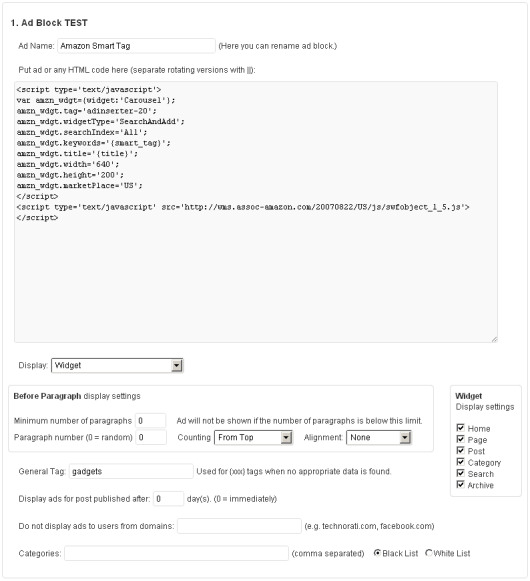
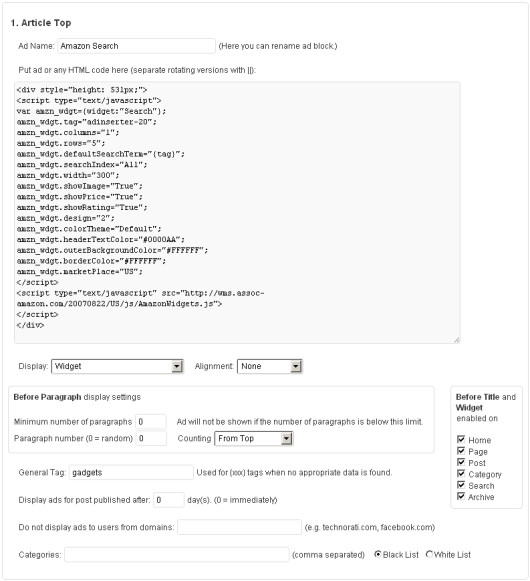
git-svn-id: https://plugins.svn.wordpress.org/ad-inserter/trunk@544482 b8457f37-d9ea-0310-8a92-e5e31aec5664

diff --git a/ad-inserter.php b/ad-inserter.php
@@ -11,16 +11,18 @@ Plugin URI: http://igorfuna.com/software/web/ad-inserter-wordpress-plugin
 
 /*
 TO DO
-- Above and below title
+- Below title
 */
 
 /*
 Change Log
 
-Ad Inserter 1.1.4 - 26/04/2012
-- Fixed bug with manual tags in posts not cleaned in blog view
+Ad Inserter 1.2.0 - 15/05/2012
+- Fixed bug: manual tags in posts lists were not removed
+- Added position Before title
 - Added support for minimum nuber of paragraphs
-- Added support for widget display options
+- Added support for page display options for Widget and Before title positions
+- Alignment now works for all display positions
 
 Ad Inserter 1.1.3 - 07/04/2012
 - Fixed bug for {search_query}: When the tag is empty {smart_tag} is used in all cases
@@ -77,6 +79,7 @@ require_once 'settings_form.php';
 //hook
 add_action('admin_menu', 'ai_admin_menu');
 add_filter('the_content', 'ai_content_hook', 99999);
+add_action('loop_start', 'ai_loop_start_hook');
 add_action('init', 'AdInserter_Init');
 
 function AdInserter_Init() {
@@ -337,6 +340,90 @@ function ai_content_hook($content = ''){
    return $content;
 }
 
+function ai_loop_start_hook($query){
+
+  if (!$query->is_main_query()) return;
+
+  $ad1 = new Ad1();
+  $ad2 = new Ad2();
+  $ad3 = new Ad3();
+  $ad4 = new Ad4();
+  $ad5 = new Ad5();
+  $ad6 = new Ad6();
+  $ad7 = new Ad7();
+  $ad8 = new Ad8();
+
+  //load options from db
+  $ad1->wp_options = ai_get_option(AD_AD1_OPTIONS);
+  $ad2->wp_options = ai_get_option(AD_AD2_OPTIONS);
+  $ad3->wp_options = ai_get_option(AD_AD3_OPTIONS);
+  $ad4->wp_options = ai_get_option(AD_AD4_OPTIONS);
+  $ad5->wp_options = ai_get_option(AD_AD5_OPTIONS);
+  $ad6->wp_options = ai_get_option(AD_AD6_OPTIONS);
+  $ad7->wp_options = ai_get_option(AD_AD7_OPTIONS);
+  $ad8->wp_options = ai_get_option(AD_AD8_OPTIONS);
+
+  $ad_all_data = array($ad1,$ad2,$ad3,$ad4,$ad5,$ad6,$ad7,$ad8);
+
+  //get post published date
+  $publish_date = the_date('U','','',false);
+
+  $http_referer = '';
+  //get referer
+  if(isset($_SERVER['HTTP_REFERER'])) {
+     $http_referer = $_SERVER['HTTP_REFERER'];
+  }
+
+  foreach($ad_all_data as $obj){
+
+    if(is_home()){
+      if (!$obj->get_widget_settings_home()) continue;
+    }
+    elseif(is_page()){
+      if (!$obj->get_widget_settings_page()) continue;
+    }
+    elseif(is_single()){
+      if (!$obj->get_widget_settings_post()) continue;
+    }
+    elseif(is_category()){
+      if (!$obj->get_widget_settings_category()) continue;
+    }
+    elseif(is_search()){
+      if (!$obj->get_widget_settings_search()) continue;
+    }
+    elseif(is_archive()){
+      if (!$obj->get_widget_settings_archive()) continue;
+    }
+
+    //if empty data, continue next
+    if($obj->get_ad_data()==AD_EMPTY_DATA){
+      continue;
+    }
+
+    if(ai_isDisplayAllowed($obj, $content)==false){
+      continue;
+    }
+
+    if(ai_isCategoryAllowed($obj->get_ad_block_cat(), $obj->get_ad_block_cat_type())==false){
+      continue;
+    }
+
+    if(ai_isDisplayDateAllowed($obj, $publish_date)==false){
+      continue;
+    }
+
+    if(ai_isRefererAllowed($obj, $http_referer)==false){
+      continue;
+    }
+
+    if($obj->get_append_type() == AD_SELECT_BEFORE_TITLE){
+
+       $ad_code = "<div style='" . $obj->get_alignmet_style() . "'>" . ai_getAdCode ($obj) . "</div>";
+    }
+  }
+
+  echo $ad_code;
+}
 function ai_isCategoryAllowed($categories, $cat_type){
 
   $categories = trim(strtolower($categories));
@@ -515,28 +602,6 @@ function ai_getAdCode ($obj){
 
 function ai_generateBeforeParagraph($content, $obj){
 
-   if ($obj->get_float_type() == AD_ALIGNMENT_LEFT)
-   {
-      $style = "text-align:left;padding:8px 0px;";
-   }
-   elseif ($obj->get_float_type() == AD_ALIGNMENT_RIGHT)
-   {
-      $style = "text-align:right;padding:8px 0px;";
-   }
-   elseif ($obj->get_float_type() == AD_ALIGNMENT_CENTER)
-   {
-      $style = "text-align:center;margin-left:auto;margin-right:auto;padding:8px 0px;";
-   }
-   elseif ($obj->get_float_type() == AD_ALIGNMENT_FLOAT_LEFT)
-   {
-      $style = "float:left;padding:8px 8px 8px 0px;";
-   }
-   elseif ($obj->get_float_type() == AD_ALIGNMENT_FLOAT_RIGHT)
-   {
-      $style = "float:right;padding:8px 0px 8px 8px;";
-   }
-   else $style = "padding:8px 0px;";
-
    $poses = array();
     $poseslast = array();
    $lastpos = -1;
@@ -567,7 +632,7 @@ function ai_generateBeforeParagraph($content, $obj){
 
       $pickme = $poses[$para];
 
-      $content = substr_replace($content, "<div style='" . $style . "'>" . ai_getAdCode ($obj) . "</div>", $pickme, 0);
+      $content = substr_replace($content, "<div style='" . $obj->get_alignmet_style() . "'>" . ai_getAdCode ($obj) . "</div>", $pickme, 0);
 
       //reset it
       $lastpos = -1;
@@ -579,13 +644,13 @@ function ai_generateBeforeParagraph($content, $obj){
 
 function ai_generateDivBefore($content, $obj){
 
-   return "<div style='padding-top:8px; padding-bottom:8px'>" . ai_getAdCode ($obj) . "</div>" . $content;
+   return "<div style='" . $obj->get_alignmet_style() . "'>" . ai_getAdCode ($obj) . "</div>" . $content;
 
 }
 
 function ai_generateDivAfter($content, $obj){
 
-   return $content . "<div style='padding-top:8px; padding-bottom:8px'>" . ai_getAdCode ($obj) . "</div>";
+   return $content . "<div style='" . $obj->get_alignmet_style() . "'>" . ai_getAdCode ($obj) . "</div>";
 
 }
 
@@ -596,7 +661,7 @@ function ai_generateDivManual($content, $obj){
         $ad_tag = strtolower (trim ($tag));
         $ad_name = strtolower (trim ($obj->get_ad_name()));
         if ($ad_tag == $ad_name) {
-          $content = preg_replace ("/{adinserter " . $tag . "}/", ai_getAdCode ($obj), $content);
+          $content = preg_replace ("/{adinserter " . $tag . "}/", "<div style='" . $obj->get_alignmet_style() . "'>" . ai_getAdCode ($obj) . "</div>", $content);
         }
      }
    }
@@ -800,7 +865,6 @@ function ai_widget_draw ($obj, $publish_date, $http_referer, $args) {
 
      if($obj->get_append_type() == AD_SELECT_WIDGET){
 
-       echo $args['before_widget'] . ai_getAdCode ($obj) . $args['after_widget'];
-
+       echo $args['before_widget'] . "<div style='" . $obj->get_alignmet_style(false) . "'>" . ai_getAdCode ($obj) . "</div>" . $args['after_widget'];
      }
 }

diff --git a/settings_form.php b/settings_form.php
@@ -65,17 +65,28 @@ by Igor Funa - <a href="http://igorfuna.com/contact/contact-igor-funa" target="_
      Display:
      <select name="<?php echo $obj->option_append_type; ?>" style="width:200px">
         <option value="<?php echo AD_SELECT_NONE; ?>" <?php echo ($obj->get_append_type()==AD_SELECT_NONE) ? AD_SELECT_SELECTED : AD_EMPTY_VALUE; ?>><?php echo AD_SELECT_NONE; ?></option>
-        <option value="<?php echo AD_SELECT_BEFORE_PARAGRAPH; ?>" <?php echo ($obj->get_append_type()==AD_SELECT_BEFORE_PARAGRAPH) ? AD_SELECT_SELECTED : AD_EMPTY_VALUE; ?>><?php echo AD_SELECT_BEFORE_PARAGRAPH; ?></option>
+        <option value="<?php echo AD_SELECT_BEFORE_TITLE; ?>" <?php echo ($obj->get_append_type()==AD_SELECT_BEFORE_TITLE) ? AD_SELECT_SELECTED : AD_EMPTY_VALUE; ?>><?php echo AD_SELECT_BEFORE_TITLE; ?></option>
         <option value="<?php echo AD_SELECT_BEFORE_CONTENT; ?>" <?php echo ($obj->get_append_type()==AD_SELECT_BEFORE_CONTENT) ? AD_SELECT_SELECTED : AD_EMPTY_VALUE; ?>><?php echo AD_SELECT_BEFORE_CONTENT; ?></option>
+        <option value="<?php echo AD_SELECT_BEFORE_PARAGRAPH; ?>" <?php echo ($obj->get_append_type()==AD_SELECT_BEFORE_PARAGRAPH) ? AD_SELECT_SELECTED : AD_EMPTY_VALUE; ?>><?php echo AD_SELECT_BEFORE_PARAGRAPH; ?></option>
         <option value="<?php echo AD_SELECT_AFTER_CONTENT; ?>" <?php echo ($obj->get_append_type()==AD_SELECT_AFTER_CONTENT) ? AD_SELECT_SELECTED : AD_EMPTY_VALUE; ?>><?php echo AD_SELECT_AFTER_CONTENT; ?></option>
         <option value="<?php echo AD_SELECT_WIDGET; ?>" <?php echo ($obj->get_append_type()==AD_SELECT_WIDGET) ? AD_SELECT_SELECTED : AD_EMPTY_VALUE; ?>><?php echo AD_SELECT_WIDGET; ?></option>
         <option value="<?php echo AD_SELECT_MANUAL; ?>" <?php echo ($obj->get_append_type()==AD_SELECT_MANUAL) ? AD_SELECT_SELECTED : AD_EMPTY_VALUE; ?>><?php echo AD_SELECT_MANUAL; ?></option>
      </select>
+     &nbsp;&nbsp;&nbsp; Alignment:
+     <select name="<?php echo $obj->option_float_type; ?>" style="width:100px">
+        <option value="<?php echo AD_ALIGNMENT_NONE; ?>" <?php echo ($obj->get_float_type()==AD_ALIGNMENT_NONE) ? AD_SELECT_SELECTED : AD_EMPTY_VALUE; ?>><?php echo AD_ALIGNMENT_NONE; ?></option>
+        <option value="<?php echo AD_ALIGNMENT_LEFT; ?>" <?php echo ($obj->get_float_type()==AD_ALIGNMENT_LEFT) ? AD_SELECT_SELECTED : AD_EMPTY_VALUE; ?>><?php echo AD_ALIGNMENT_LEFT; ?></option>
+        <option value="<?php echo AD_ALIGNMENT_RIGHT; ?>" <?php echo ($obj->get_float_type()==AD_ALIGNMENT_RIGHT) ? AD_SELECT_SELECTED : AD_EMPTY_VALUE; ?>><?php echo AD_ALIGNMENT_RIGHT; ?></option>
+        <option value="<?php echo AD_ALIGNMENT_CENTER; ?>" <?php echo ($obj->get_float_type()==AD_ALIGNMENT_CENTER) ? AD_SELECT_SELECTED : AD_EMPTY_VALUE; ?>><?php echo AD_ALIGNMENT_CENTER; ?></option>
+        <option value="<?php echo AD_ALIGNMENT_FLOAT_LEFT; ?>" <?php echo ($obj->get_float_type()==AD_ALIGNMENT_FLOAT_LEFT) ? AD_SELECT_SELECTED : AD_EMPTY_VALUE; ?>><?php echo AD_ALIGNMENT_FLOAT_LEFT; ?></option>
+        <option value="<?php echo AD_ALIGNMENT_FLOAT_RIGHT; ?>" <?php echo ($obj->get_float_type()==AD_ALIGNMENT_FLOAT_RIGHT) ? AD_SELECT_SELECTED : AD_EMPTY_VALUE; ?>><?php echo AD_ALIGNMENT_FLOAT_RIGHT; ?></option>
+     </select>
   </div>
   <div style="padding:8px 8px 8px 8px;; border: 1px solid #ddd; border-radius: 5px; width: 90px; float: right;">
+     <strong>Before Title</strong> and
      <strong>Widget</strong>
      <br />
-     Display settings
+     enabled on
      <br /><br />
      <input type="hidden" name="<?php echo $obj->option_widget_settings_home; ?>" value="0" />
      <input type="checkbox" name="<?php echo $obj->option_widget_settings_home; ?>" value="1" <?php if ($obj->get_widget_settings_home()==AD_WIDGET_SETTINGS_CHECKED) echo 'checked '; ?>> <label for="<?php echo $obj->option_widget_settings_home; ?>">Home</label><br>
@@ -104,15 +115,6 @@ by Igor Funa - <a href="http://igorfuna.com/contact/contact-igor-funa" target="_
        <select name="<?php echo $obj->option_direction_type; ?>" style="width:120px">
           <option value="<?php echo AD_DIRECTION_FROM_TOP; ?>" <?php echo ($obj->get_direction_type()==AD_DIRECTION_FROM_TOP) ? AD_SELECT_SELECTED : AD_EMPTY_VALUE; ?>><?php echo AD_DIRECTION_FROM_TOP; ?></option>
           <option value="<?php echo AD_DIRECTION_FROM_BOTTOM; ?>" <?php echo ($obj->get_direction_type()==AD_DIRECTION_FROM_BOTTOM) ? AD_SELECT_SELECTED : AD_EMPTY_VALUE; ?>><?php echo AD_DIRECTION_FROM_BOTTOM; ?></option>
-       </select>
-       &nbsp;&nbsp;&nbsp; Alignment:
-       <select name="<?php echo $obj->option_float_type; ?>" style="width:100px">
-          <option value="<?php echo AD_ALIGNMENT_NONE; ?>" <?php echo ($obj->get_float_type()==AD_ALIGNMENT_NONE) ? AD_SELECT_SELECTED : AD_EMPTY_VALUE; ?>><?php echo AD_ALIGNMENT_NONE; ?></option>
-          <option value="<?php echo AD_ALIGNMENT_LEFT; ?>" <?php echo ($obj->get_float_type()==AD_ALIGNMENT_LEFT) ? AD_SELECT_SELECTED : AD_EMPTY_VALUE; ?>><?php echo AD_ALIGNMENT_LEFT; ?></option>
-          <option value="<?php echo AD_ALIGNMENT_RIGHT; ?>" <?php echo ($obj->get_float_type()==AD_ALIGNMENT_RIGHT) ? AD_SELECT_SELECTED : AD_EMPTY_VALUE; ?>><?php echo AD_ALIGNMENT_RIGHT; ?></option>
-          <option value="<?php echo AD_ALIGNMENT_CENTER; ?>" <?php echo ($obj->get_float_type()==AD_ALIGNMENT_CENTER) ? AD_SELECT_SELECTED : AD_EMPTY_VALUE; ?>><?php echo AD_ALIGNMENT_CENTER; ?></option>
-          <option value="<?php echo AD_ALIGNMENT_FLOAT_LEFT; ?>" <?php echo ($obj->get_float_type()==AD_ALIGNMENT_FLOAT_LEFT) ? AD_SELECT_SELECTED : AD_EMPTY_VALUE; ?>><?php echo AD_ALIGNMENT_FLOAT_LEFT; ?></option>
-          <option value="<?php echo AD_ALIGNMENT_FLOAT_RIGHT; ?>" <?php echo ($obj->get_float_type()==AD_ALIGNMENT_FLOAT_RIGHT) ? AD_SELECT_SELECTED : AD_EMPTY_VALUE; ?>><?php echo AD_ALIGNMENT_FLOAT_RIGHT; ?></option>
        </select>
   </div>
   <br />

diff --git a/class.php b/class.php
@@ -85,6 +85,40 @@ abstract class BaseAdInserter {
       return $this->wp_options[$this->option_float_type];
     }
 
+   public function get_alignmet_style($margin = true){
+    if ($this->get_float_type() == AD_ALIGNMENT_LEFT) {
+      if ($margin)
+        $style = "text-align:left;margin:8px 0px;"; else
+          $style = "text-align:left;";
+    }
+    elseif ($this->get_float_type() == AD_ALIGNMENT_RIGHT) {
+      if ($margin)
+        $style = "text-align:right;margin:8px 0px;"; else
+          $style = "text-align:right;";
+    }
+    elseif ($this->get_float_type() == AD_ALIGNMENT_CENTER) {
+      if ($margin)
+        $style = "text-align:center;margin-left:auto;margin-right:auto;margin-top:8px;margin-bottom:8px;"; else
+          $style = "text-align:center;margin-left:auto;margin-right:auto;";
+    }
+    elseif ($this->get_float_type() == AD_ALIGNMENT_FLOAT_LEFT) {
+      if ($margin)
+        $style = "float:left;margin:8px 8px 8px 0px;"; else
+          $style = "float:left;";
+    }
+    elseif ($this->get_float_type() == AD_ALIGNMENT_FLOAT_RIGHT) {
+      if ($margin)
+        $style = "float:right;margin:8px 0px 8px 8px;"; else
+          $style = "float:right;";
+    }
+    else {
+      if ($margin)
+        $style = "margin:8px 0px;";
+          $style = "margin:0;";
+    }
+
+    return $style;
+   }
    public function get_ad_data(){
 
       return $this->wp_options[$this->option_ad_data];

diff --git a/constants.php b/constants.php
@@ -80,6 +80,7 @@ define('AD_SELECT_SELECTED','selected');
 //Position options
 define('AD_SELECT_SELECTED','selected');
 define('AD_SELECT_NONE','None');
+define('AD_SELECT_BEFORE_TITLE','Before Title');
 define('AD_SELECT_BEFORE_PARAGRAPH','Before Paragraph');
 define('AD_SELECT_BEFORE_CONTENT','Before Content');
 define('AD_SELECT_AFTER_CONTENT','After Content');
